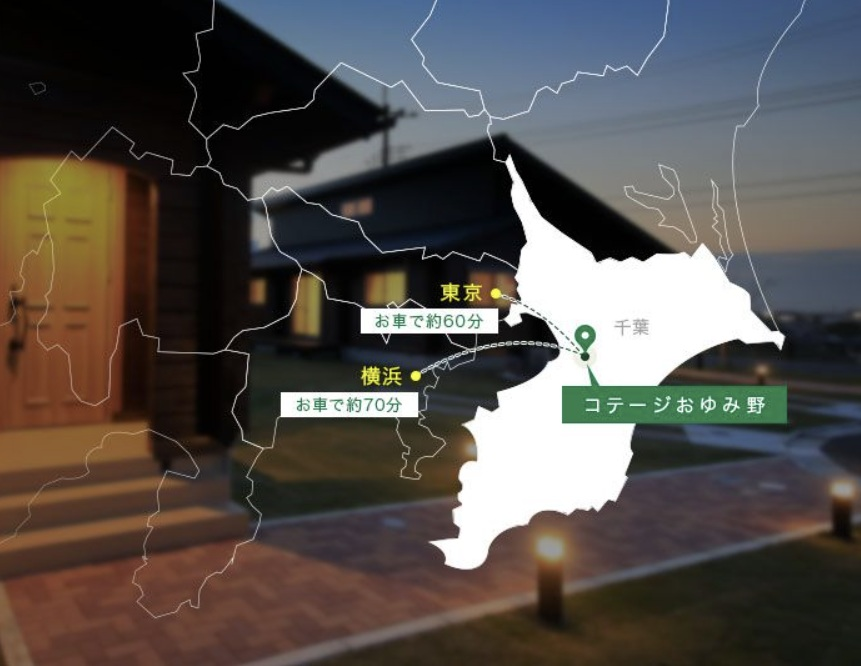
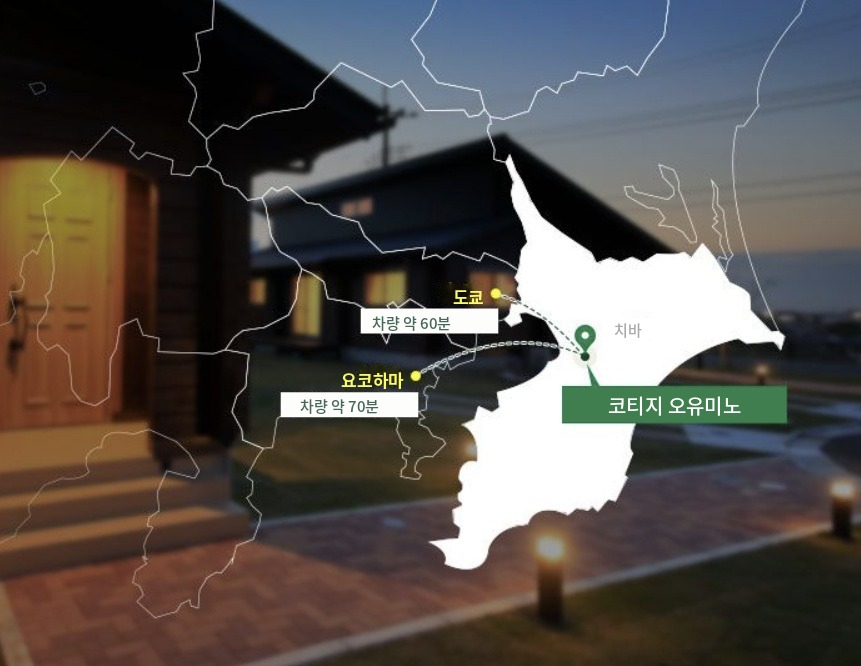
Replace course map and remove Japanese text from the site
- Course map: new Korean/English version; legend under the map in Korean
- Access map on home: Japanese labels redrawn in Korean
- Course intro: drop the designer's kanji name

Claude-Session: https://claude.ai/code/session_01W9qerAV9NcBaaJDkedkxsH

diff --git a/app/course/page.tsx b/app/course/page.tsx
@@ -86,7 +86,7 @@ export default function CoursePage() {
           <h2 className="h-display">56년이 넘는 전통, 세 가지 코스</h2>
           <p className="mt-5 leading-relaxed text-muted">
             사계절의 자연미와 경치로 둘러싸인 혼치바 컨트리클럽은 1970년 홋치
-            아키라(発知 朗, Akira Hocchi)의 설계로 개장했습니다. 전략적으로
+            아키라(Akira Hocchi)의 설계로 개장했습니다. 전략적으로
             배치된 연못과 벙커가 조화를 이루어 플레이어의 지성과 감성을
             자극합니다. 코스는 EAST, CENTRAL, WEST로 구분됩니다.
           </p>
@@ -195,9 +195,9 @@ export default function CoursePage() {
           />
         </div>
         <ul className="mt-4 flex flex-wrap gap-x-6 gap-y-1 text-sm text-muted">
-          <li>東コース = 동코스(EAST)</li>
-          <li>中コース = 중코스(CENTRAL)</li>
-          <li>西コース = 서코스(WEST)</li>
+          <li>EAST = 동코스</li>
+          <li>CENTRAL = 중코스</li>
+          <li>WEST = 서코스</li>
         </ul>
       </section>
 
